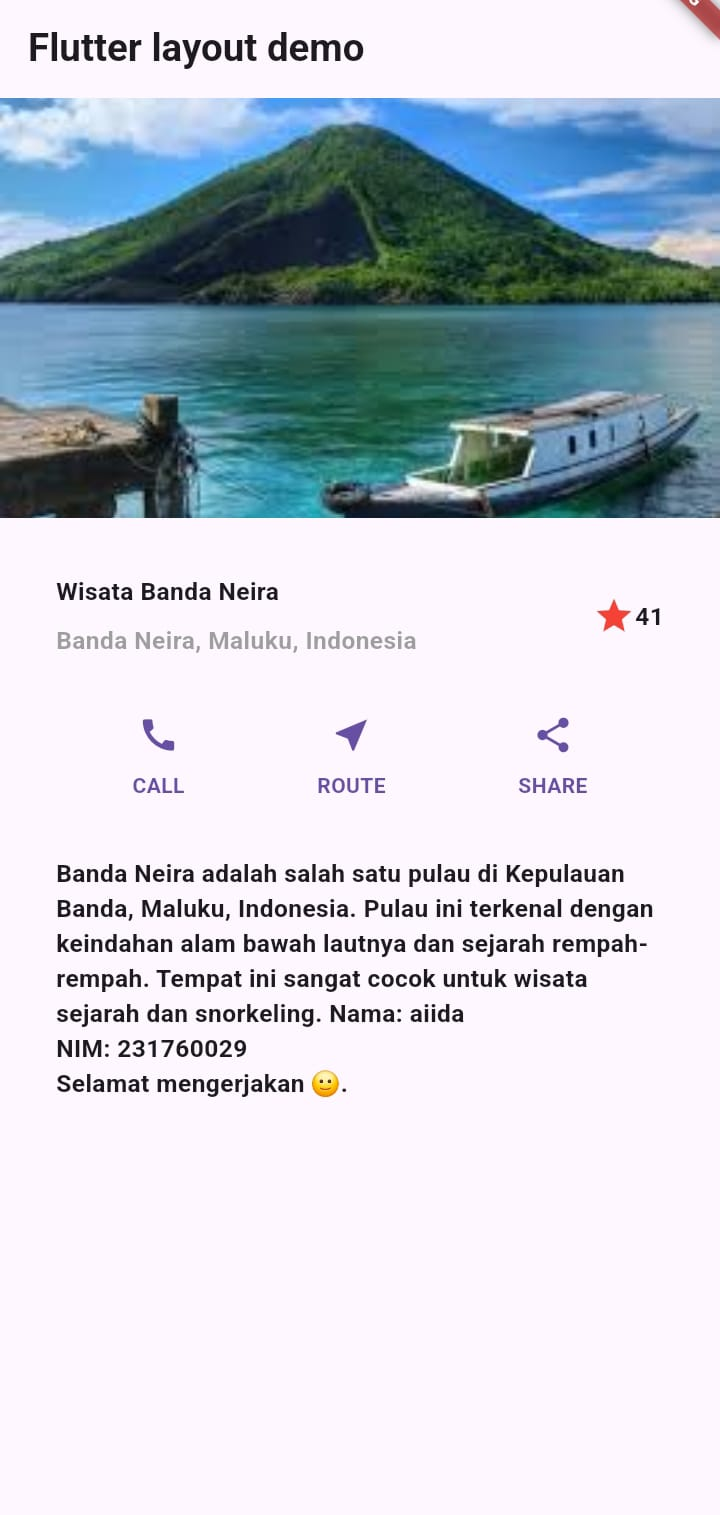
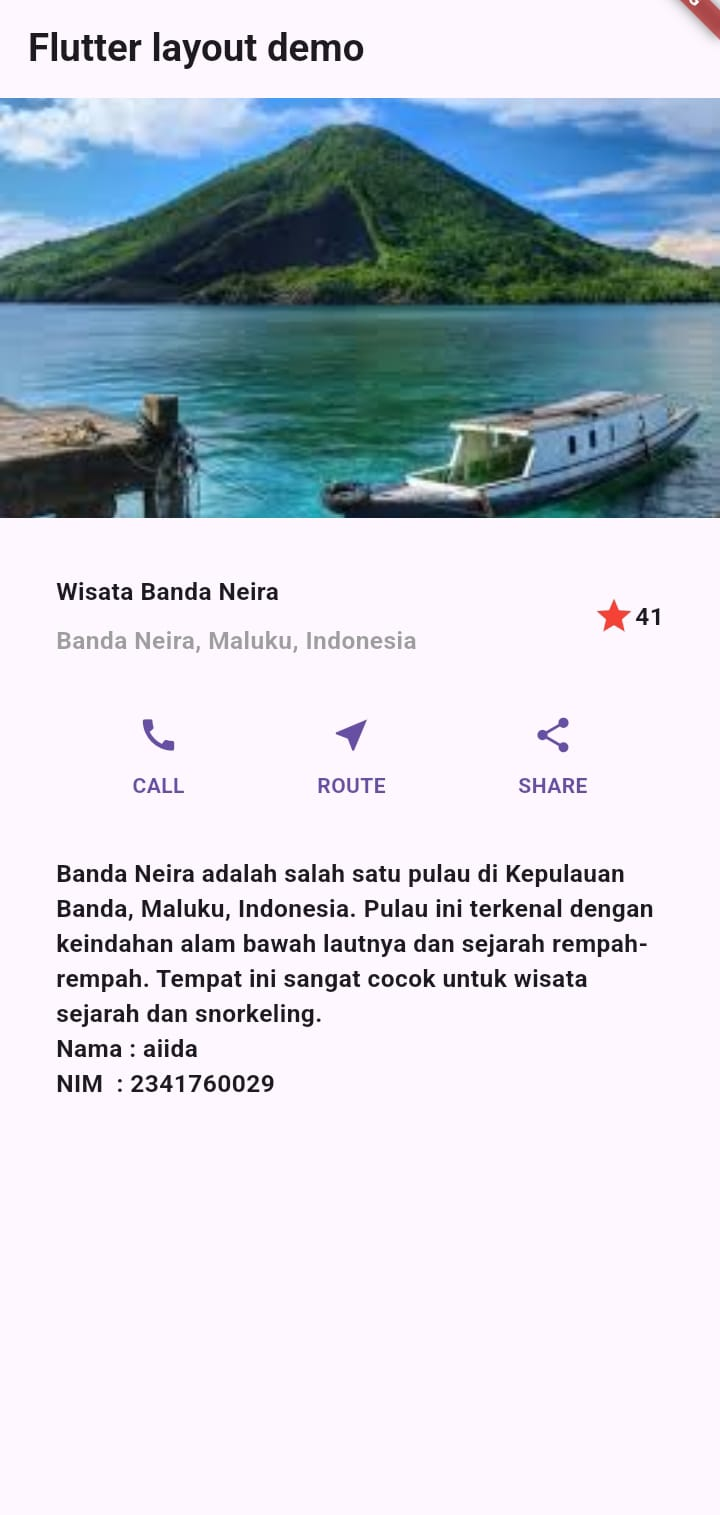
tugas praktikum 1 done

Changed region(s): [[0.0917, 0.6825, 0.4889, 0.7446], [0.4583, 0.6515, 0.6417, 0.6825]]

diff --git a/lib/main.dart b/lib/main.dart
@@ -58,12 +58,12 @@ class MyApp extends StatelessWidget {
     // Text section widget
     Widget textSection = Container(
       padding: const EdgeInsets.all(32),
-      child: const Text(
+            child: const Text(
         'Banda Neira adalah salah satu pulau di Kepulauan Banda, Maluku, Indonesia. '
         'Pulau ini terkenal dengan keindahan alam bawah lautnya dan sejarah rempah-rempah. '
-        'Tempat ini sangat cocok untuk wisata sejarah dan snorkeling. '
-        'Nama: aiida\nNIM: 231760029\n'
-        'Selamat mengerjakan 🙂.',
+        'Tempat ini sangat cocok untuk wisata sejarah dan snorkeling.\n'
+        'Nama : aiida\n'
+        'NIM  : 2341760029',
         softWrap: true,
       ),
     );
